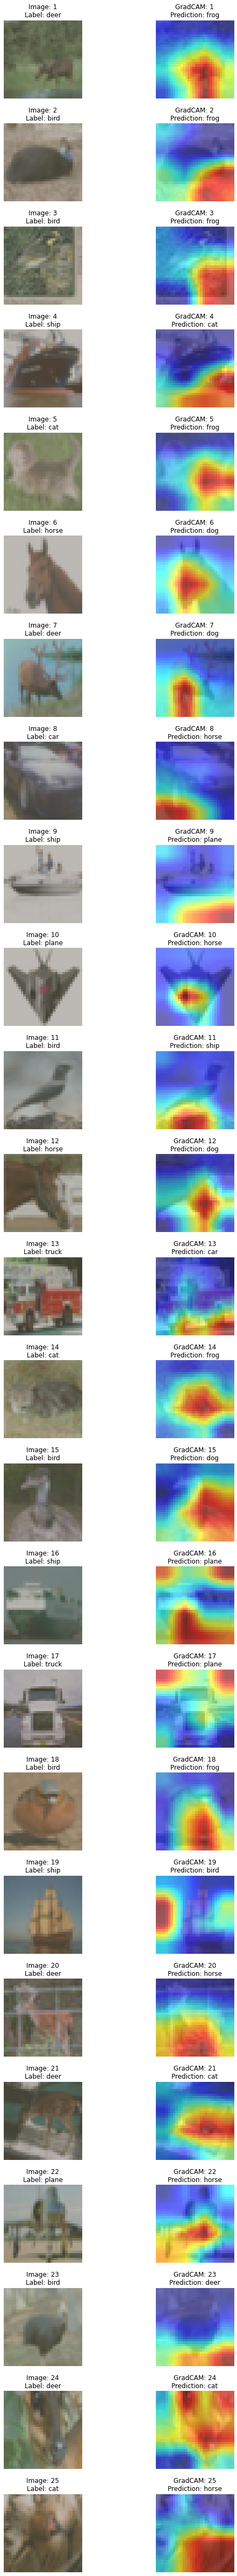
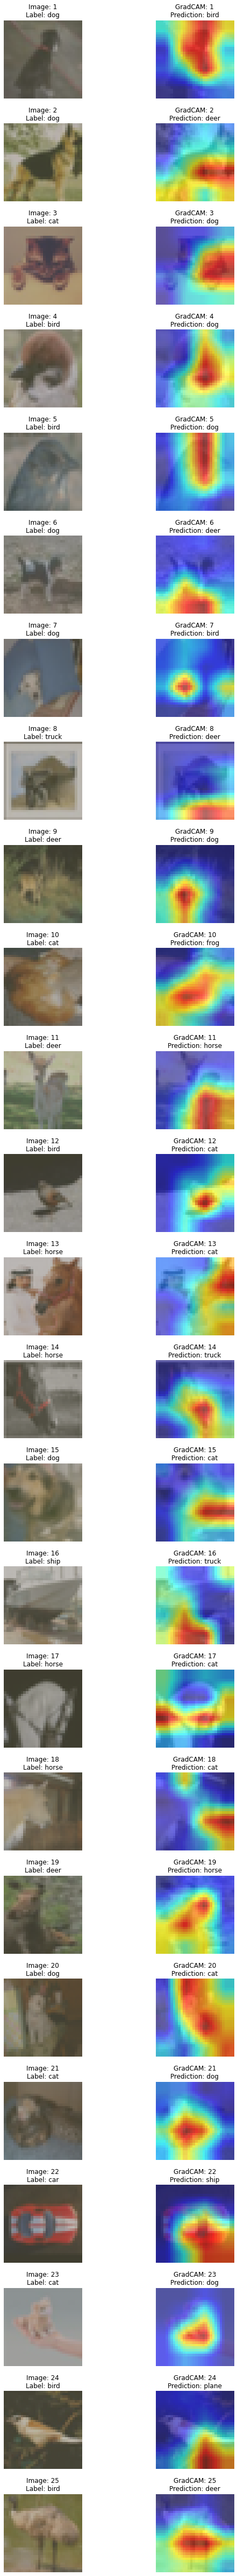
run data for advance training

diff --git a/w10-AdvanceTraining/README.md b/w10-AdvanceTraining/README.md
@@ -14,11 +14,11 @@ The results with using ResNet18 architecture with (2,2,2,2), that is, 4 residual
 ----
 | Attribute | Value |
 |:--- | :--- |
-| Train Accuracy | 47.044 |
-| Test Accuracy | 50.73 |
+| Train Accuracy | 98.902 |
+| Test Accuracy | 84.36 |
 | Trained Parameter count   |11173962 |
 | Dropout | 0.1 |
-| Total Epochs | 2 |
+| Total Epochs | 50 |
 | Batch Size | 64|
 | LR using LRFinder | 0.1284|
 
